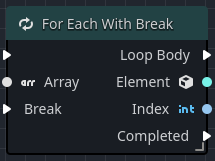
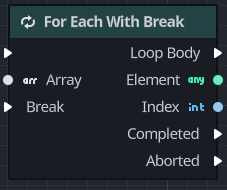
Add aborted pins, update images

diff --git a/docs/nodes/flow-control.md b/docs/nodes/flow-control.md
@@ -152,6 +152,7 @@ In a future Orchestrator update, wires will be controlled by user-driven **Knots
 | Loop Body   | This outputs an execution pulse on each iteration of the loop as it moves between the two indices. |
 | Index       | This outputs the current index in the loop.                                                        |
 | Completed   | This outputs an execution pulse when the loop has reached the for loop has completed.              |
+| Aborted     | This outputs whether the loop broke early due to the **Break** input pin.                          |
 
 ### For each loop
 
@@ -198,6 +199,7 @@ In a future Orchestrator update, wires will be controlled by user-driven **Knots
 | Element   | This outputs the current array element.                                                            |
 | Index     | This outputs the current index in the loop.                                                        |
 | Completed | This outputs an execution pulse when the loop has reached the for loop has completed.              |
+| Aborted   | This outputs whether the loop broke early due to the **Break** input pin.                          |
 
 ### Random
 
@@ -222,15 +224,15 @@ If the condition is `false`, the **Select** node allows the value of `B` to be s
 
 :::info
 By default, the **Select** node uses the Godot **Any** type to allow any value to be attached to its input pins.
-To restrict the **Select** node to a specific Godot type, right-click on the `A`, `B`, or `Return Value` pins and pick a type from the `Change Type` context-menu.
+To restrict the **Select** node to a specific Godot type, right-click on the `A`, `B`, or `Result` pins and pick a type from the `Change Type` context-menu.
 :::
 
-| Pin          | Description                                                                 |
-|:-------------|:----------------------------------------------------------------------------|
-| A            | One of two values that will be output if the `Pick A` condition is `true`.  |
-| B            | One of two values that will be output if the `Pick A` condition is `false`. |
-| Pick A       | Controls whether the value of `A` or `B` is emitted as the `Return Value`   |
-| Return Value | The output value of the gate, depends on what the `Pick A` condition is.    |
+| Pin    | Description                                                                 |
+|:-------|:----------------------------------------------------------------------------|
+| A      | One of two values that will be output if the `Pick A` condition is `true`.  |
+| B      | One of two values that will be output if the `Pick A` condition is `false`. |
+| Pick A | Controls whether the value of `A` or `B` is emitted as the `Return Value`   |
+| Result | The output value of the gate, depends on what the `Pick A` condition is.    |
 
 ### Sequence
 
